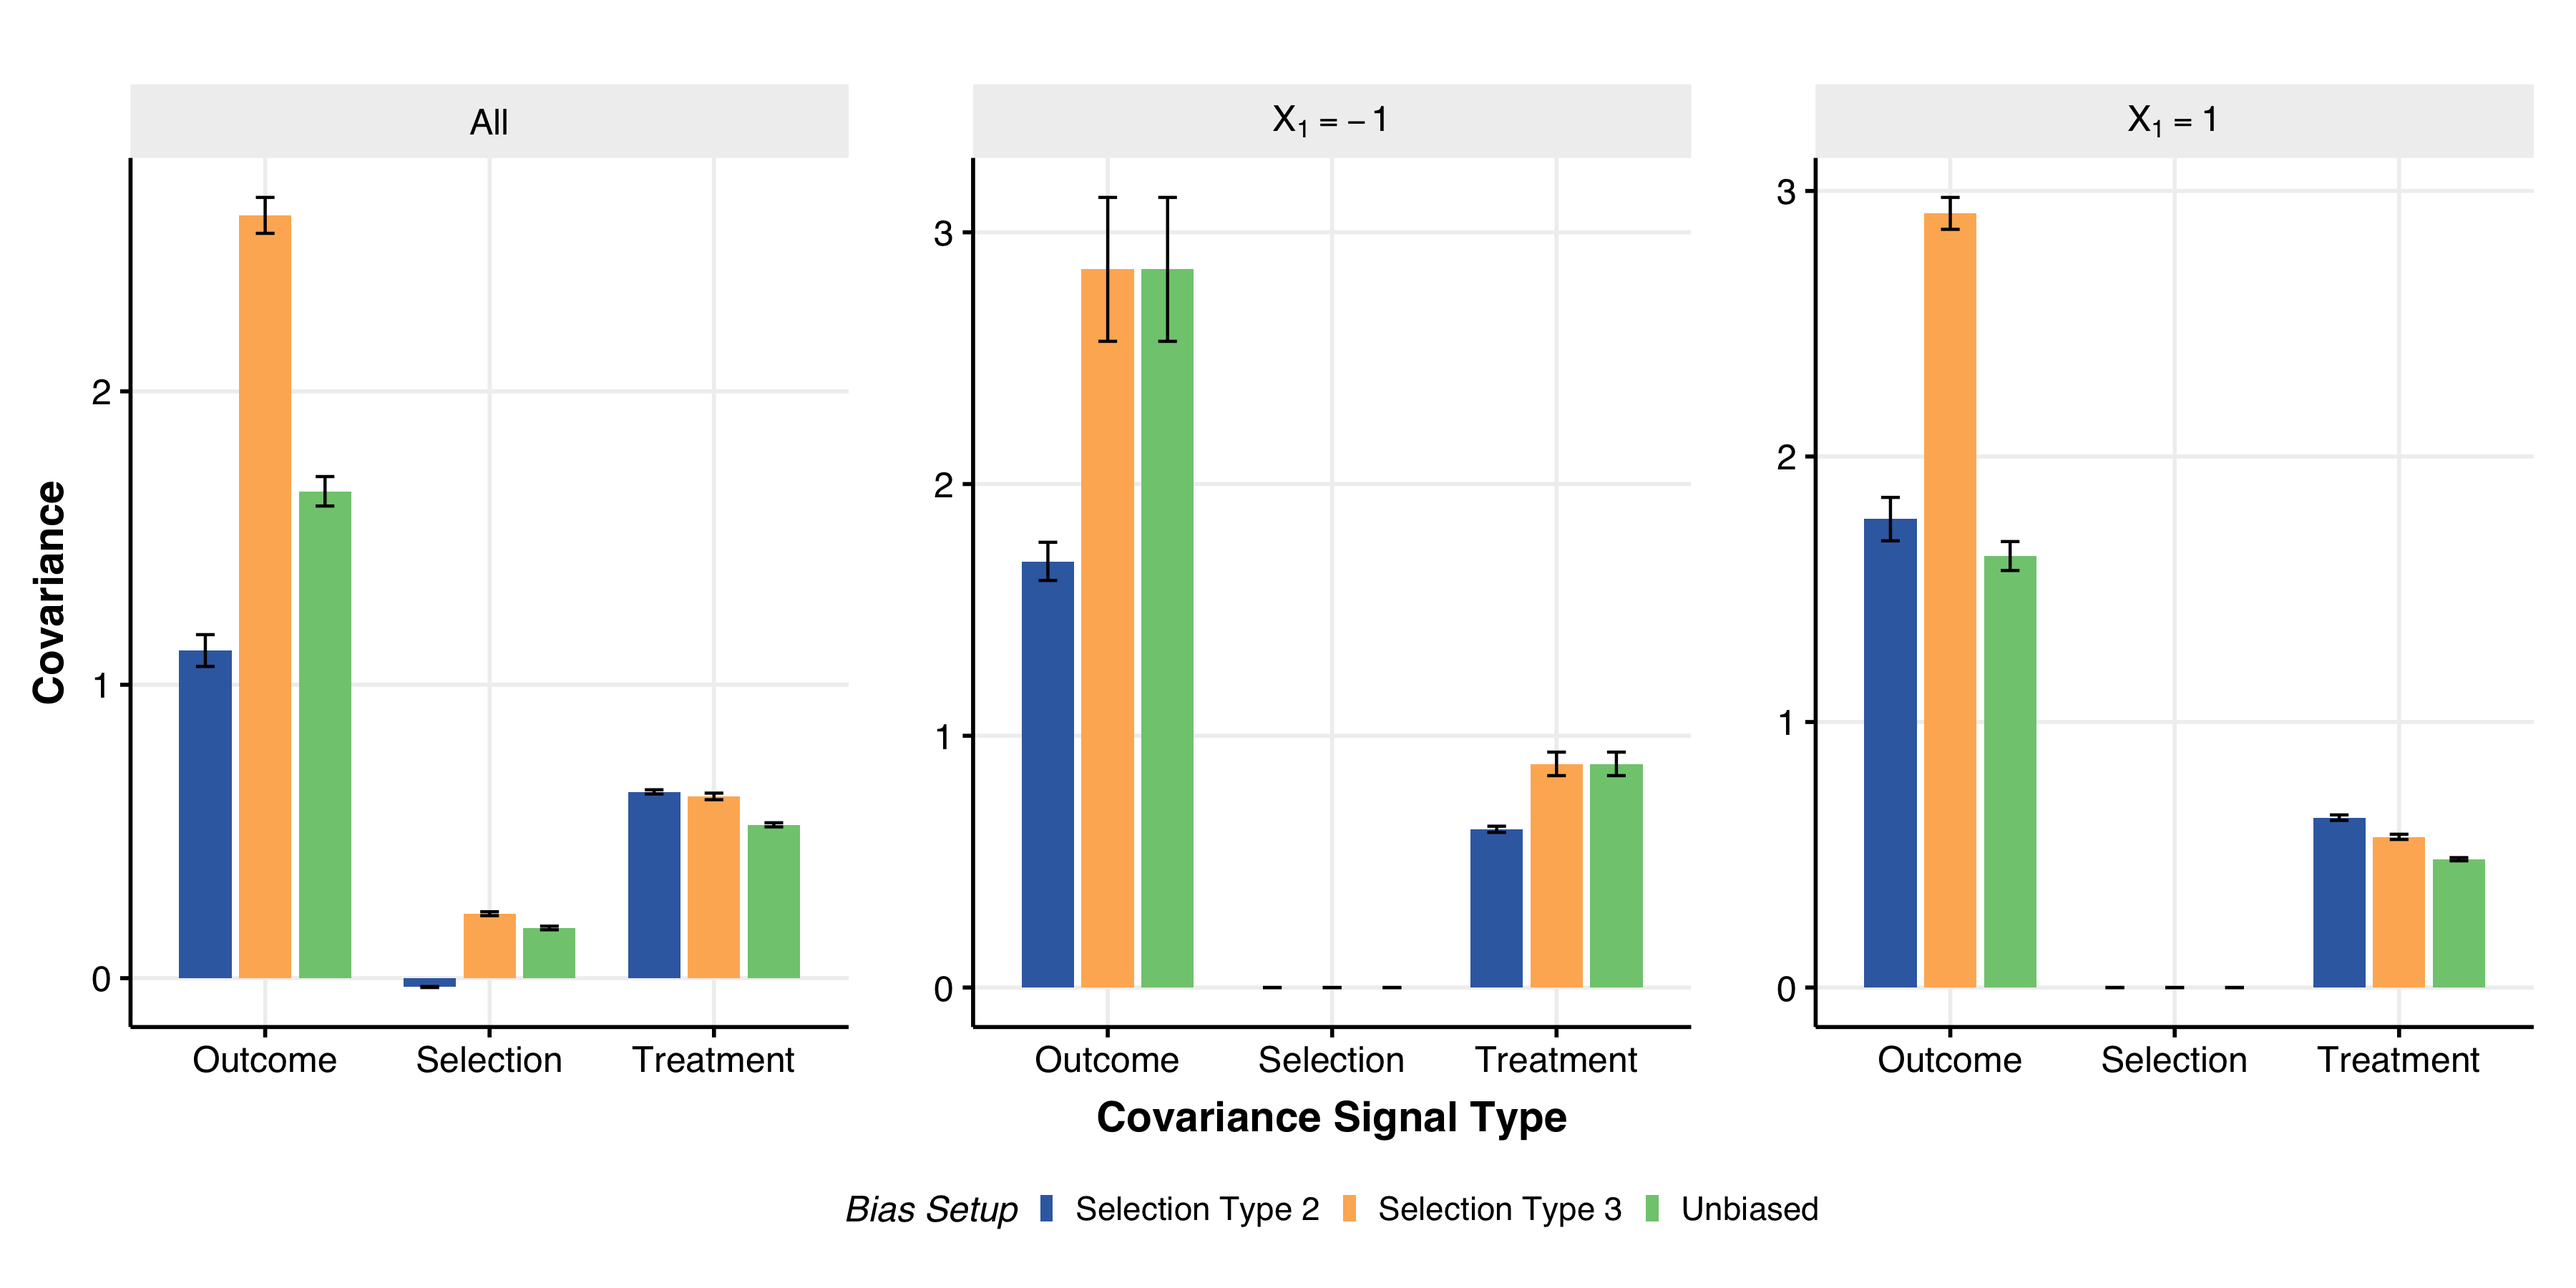
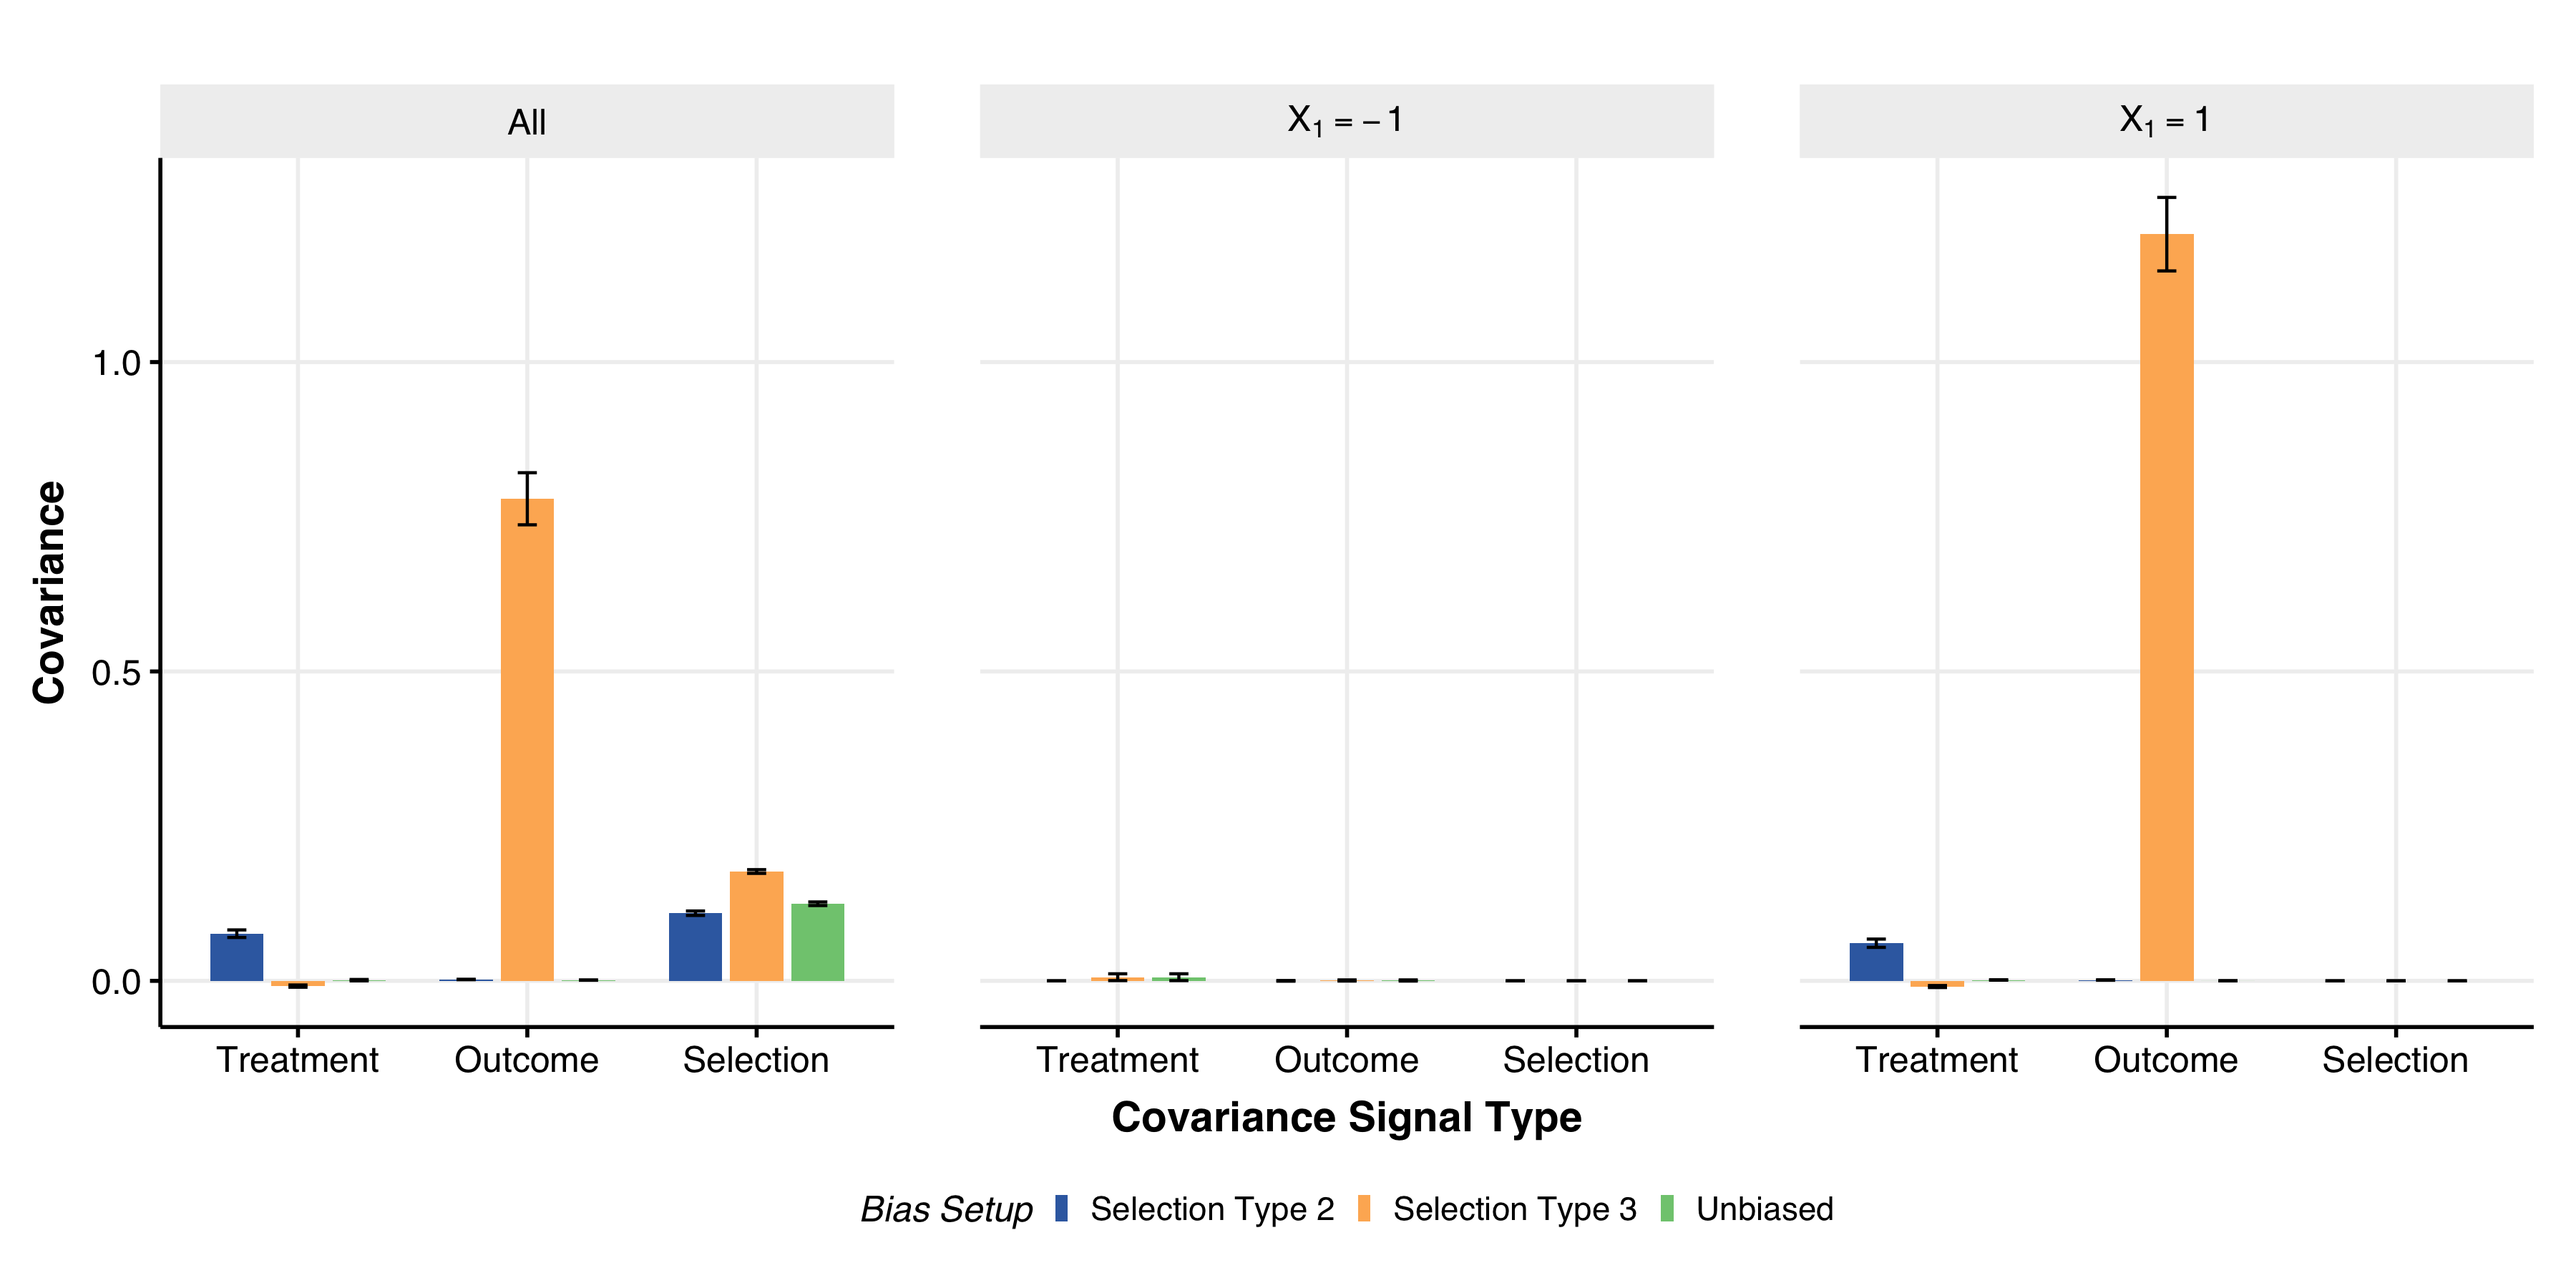
fixed variance issue, new covariance plot/result

diff --git a/synthetic/run_experiment.py b/synthetic/run_experiment.py
@@ -3,9 +3,9 @@ import numpy as np
 from bias_generation import BaseUnbiasedSetup, SelectionBiasType1or2, SelectionBiasType3
 from estimator import CovarianceEstimator, PsiEstimator
 
-def run_single_experiment(bias_setup, seed):
+def run_single_experiment(bias_setup, seed, n_rct, n_obs):
     # Set up the experiment
-    setup = bias_setup(random_seed=seed)
+    setup = bias_setup(n_rct=n_rct, n_obs=n_obs, random_seed=seed)
     
     # Generate data
     df_rct, df_obs = setup.generate_data()
@@ -38,6 +38,10 @@ def main():
                       required=True, help='Type of bias setup to use')
     parser.add_argument('--n_runs', type=int, default=10,
                       help='Number of experimental runs')
+    parser.add_argument('--n_rct', type=int, default=1000,
+                      help='RCT sample size')
+    parser.add_argument('--n_obs', type=int, default=10000,
+                      help='OBS sample size')
     parser.add_argument('--seed', type=int, default=42,
                       help='Base random seed')
     args = parser.parse_args()
@@ -54,7 +58,7 @@ def main():
     all_results = []
     for i in range(args.n_runs):
         seed = args.seed + i
-        results = run_single_experiment(bias_setup, seed)
+        results = run_single_experiment(bias_setup, seed, args.n_rct, args.n_obs)
         all_results.append(results)
         print(f"Completed run {i+1}/{args.n_runs}")
         

diff --git a/synthetic/bias_generation.py b/synthetic/bias_generation.py
@@ -73,9 +73,9 @@ class BaseUnbiasedSetup:
     
     def _generate_outcome(self, row):
         if row["A"] == 0:
-            return row["X1"] + np.random.normal(0, 1)
+            return row["X1"] + np.random.normal(0, 0.1)
         else:
-            return 2 + row["X1"] + np.random.normal(0, 1)
+            return 2 + row["X1"] + np.random.normal(0, 0.1)
             
     def fit_models(self, df_rct, df_obs, models={"outcome": "DTR", 
                                                  "selection": "DTC", 
@@ -136,7 +136,7 @@ class SelectionBiasType1or2(BaseUnbiasedSetup):
     def _generate_obs_selection(self, row):
         # need to change this to depend on A and Y
         if row["A"] == 0: 
-            return np.random.binomial(1, 0.5)
+            return np.random.binomial(1, 0.1)
         else: 
             pXY = 1 / (1 + np.exp(-row["Y"]))
             if row["X1"] == 1: 
@@ -158,9 +158,9 @@ class SelectionBiasType3(BaseUnbiasedSetup):
             
     def _generate_outcome(self, row):
         if row["A"] == 0:
-            return row["X1"] + np.random.normal(0, 1)
+            return row["X1"] + np.random.normal(0, 0.1)
         else:
             if row["X1"] == -1:
-                return 2 + row["X1"] + np.random.normal(0, 1)
+                return 2 + row["X1"] + np.random.normal(0, 0.1)
             else:
                 return 2 + row["X1"] + row["U1"] + np.random.normal(0, 1)
